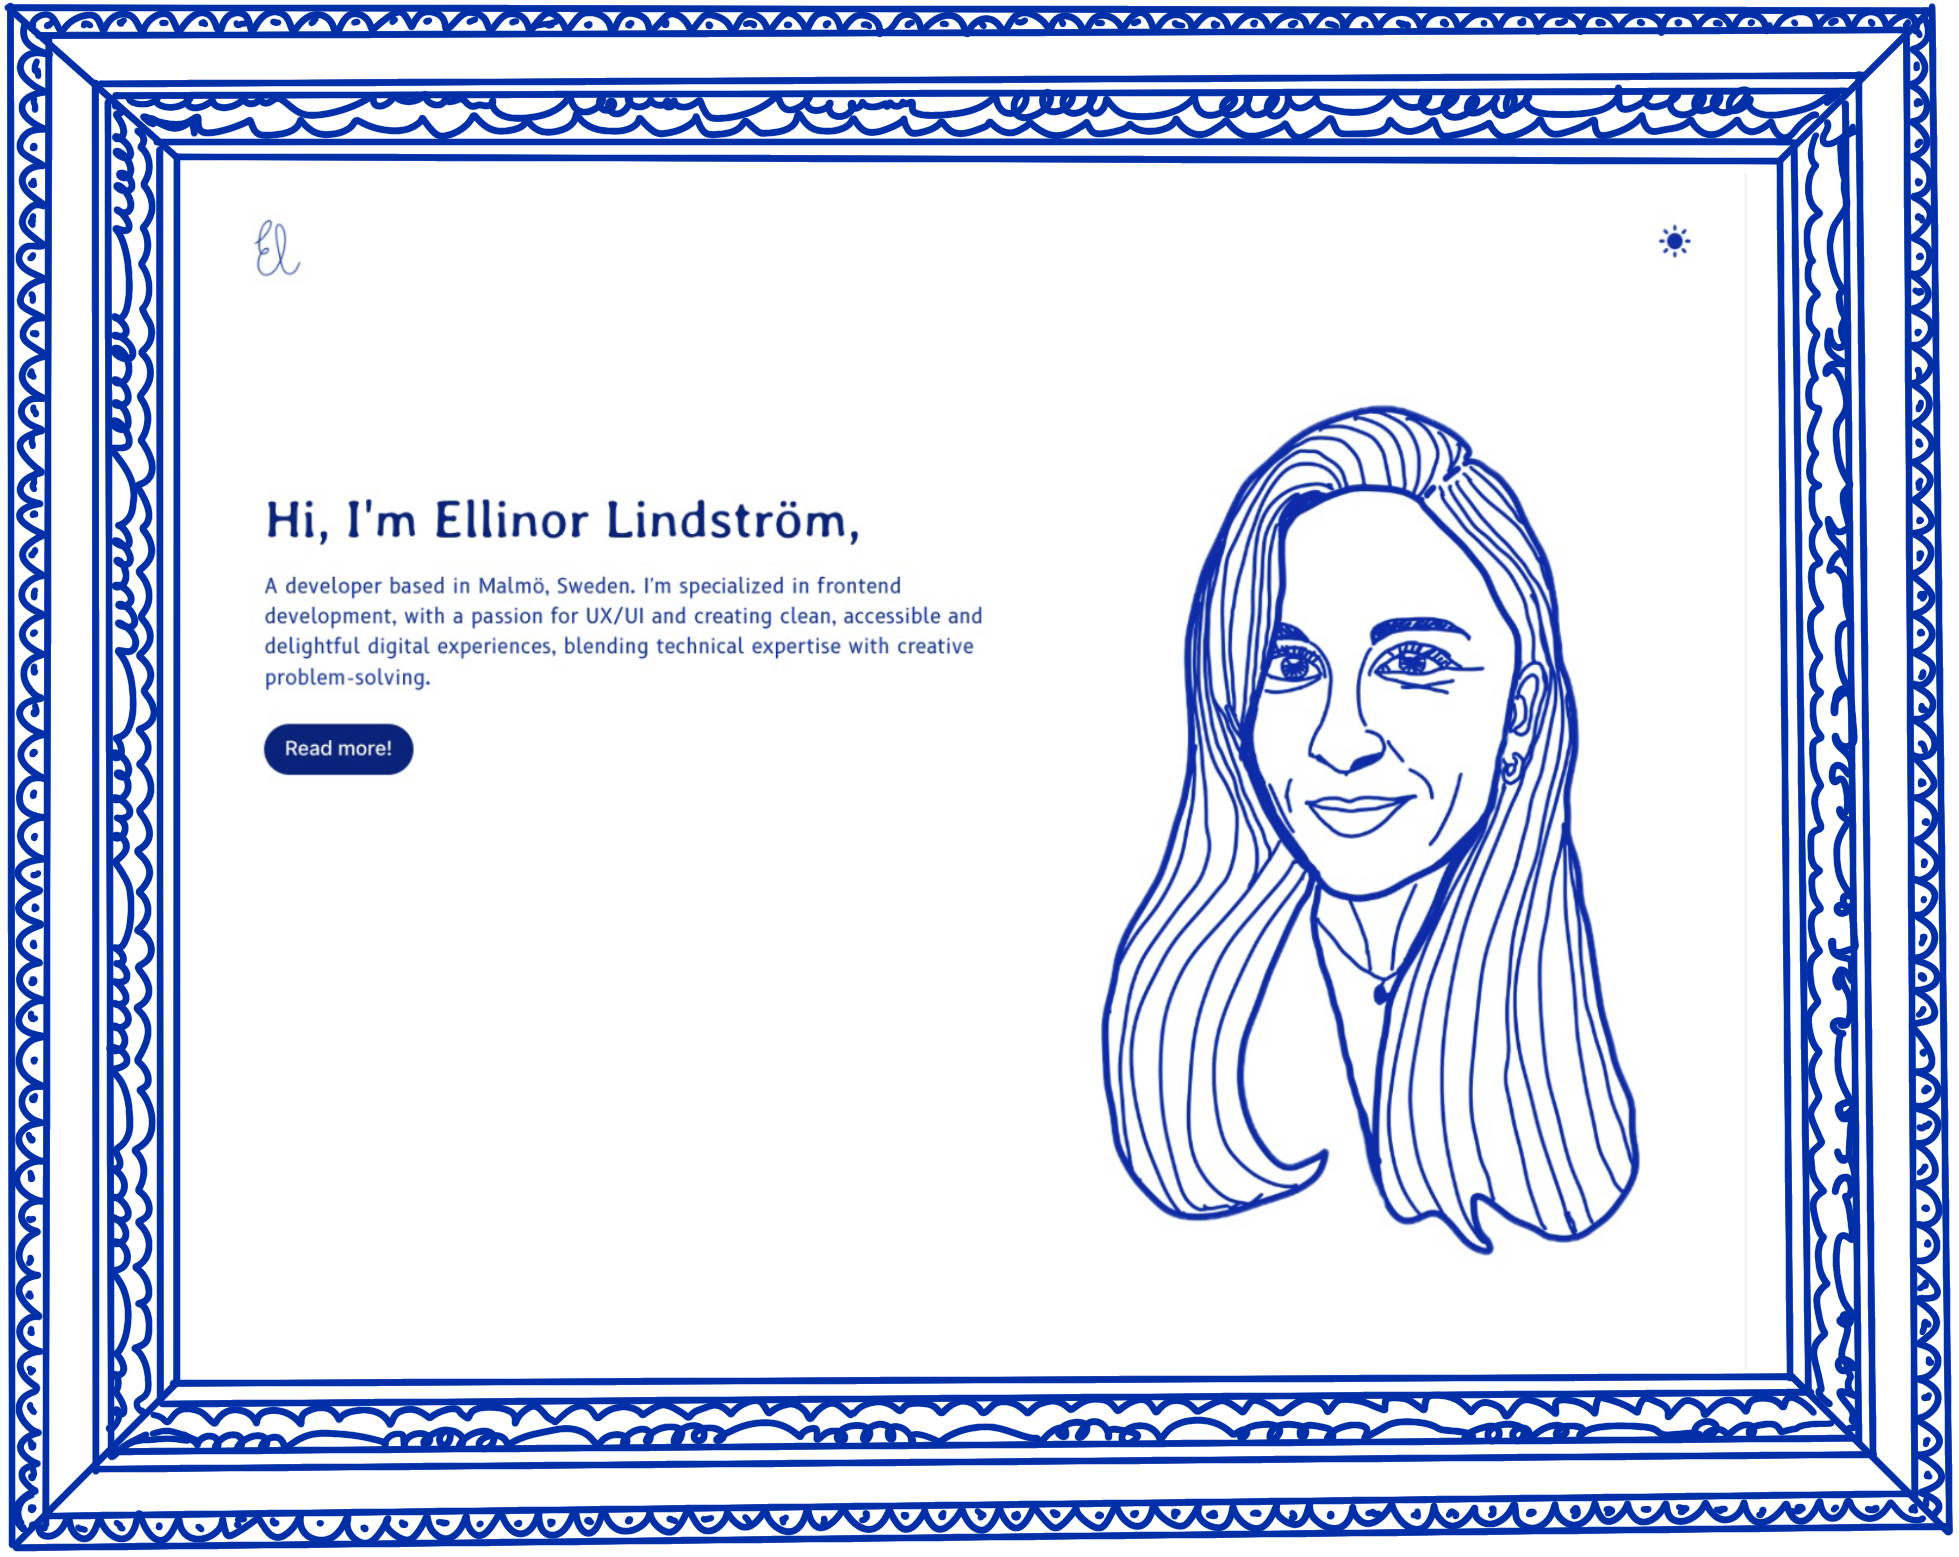
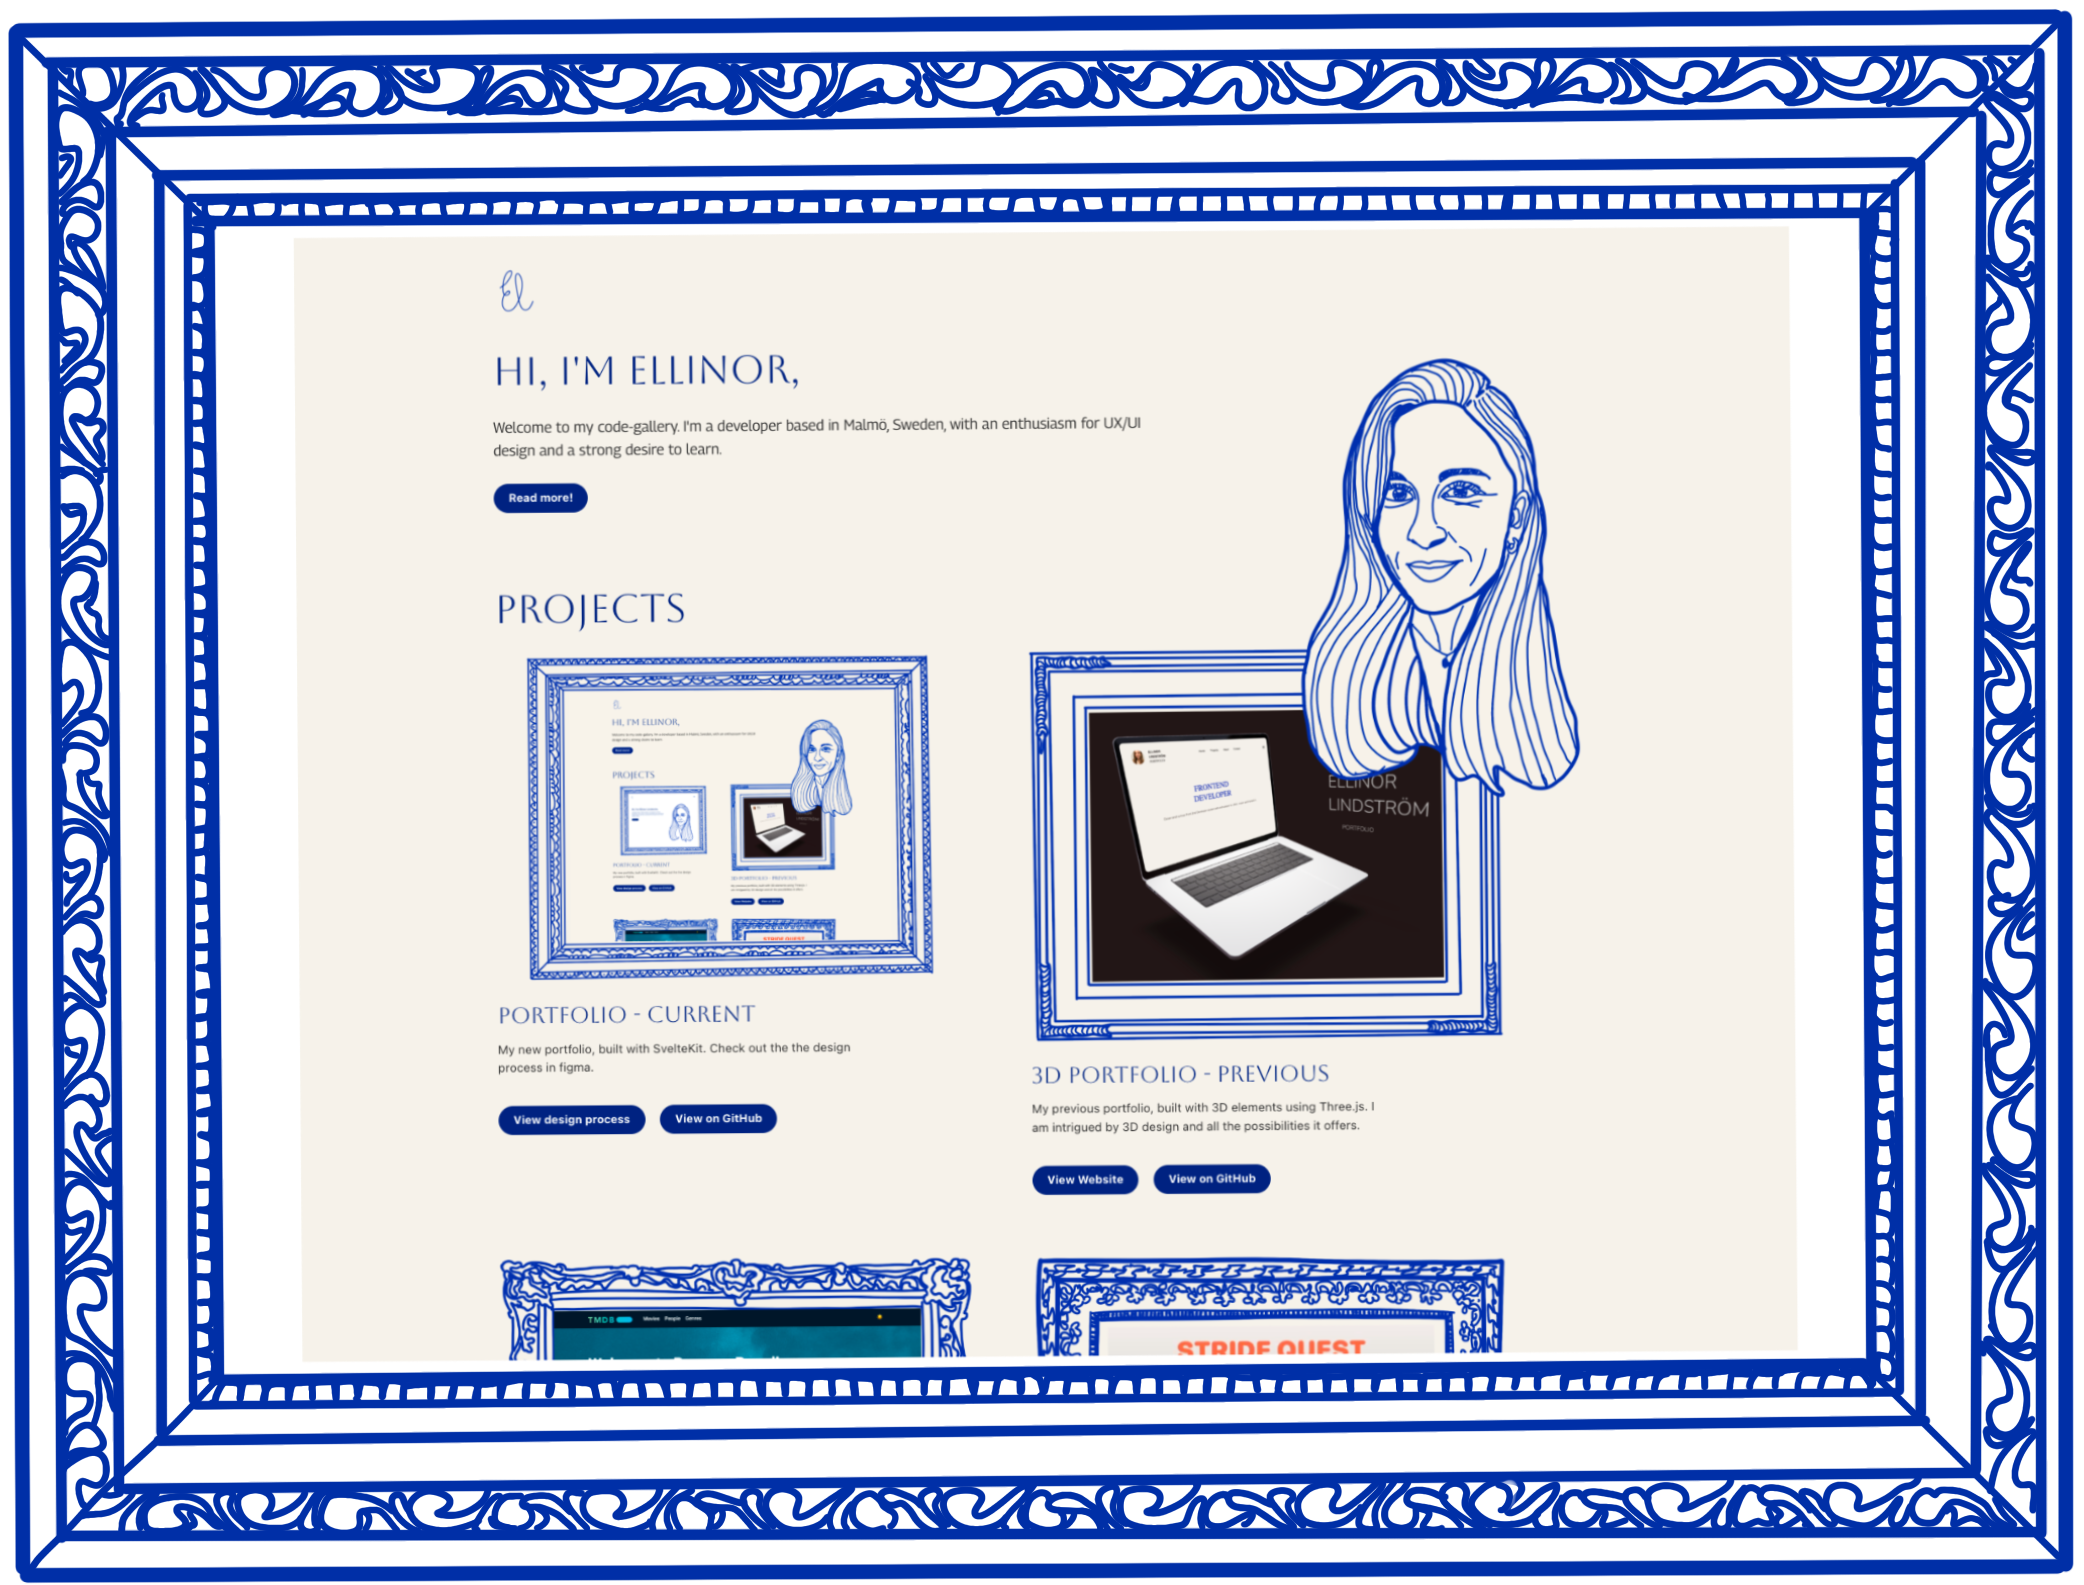
change layout and background color

diff --git a/src/styles/index.css b/src/styles/index.css
@@ -1,14 +1,17 @@
-@import url('https://fonts.googleapis.com/css2?family=Averia+Libre:wght@400;700&family=B612:wght@400;700&display=swap');
+@import url('https://fonts.googleapis.com/css2?family=Aboreto:wght@400;700&family=Georama:wght@400;700&display=swap');
 
 
 @layer reset, base, tokens, recipes, utilities;
 
 @layer base {
+
+  html {
+    background-color: var(--background-color);
+  }
   
   .layout-container {
     padding: 2rem 2rem 0.5rem;
     margin: 0 auto;
-    background-color: var(--background-color);
     color: var(--text-color);
     max-width: 1200px;
  
@@ -24,10 +27,10 @@
   /* Colors */
   :root {
     --primary-color: #002481;
-    --illustrations-color: #002FA7;
+    --illustration-color: #002FA7;
     --secondary-600: #7F7373;
     --secondary-400: #AEAEAE;
-    --background-color: #FCFCFD;    
+    --background-color: #f5f1e9;    
     --background-text: #FFF5EE;
     --text-color: #333333;
 
@@ -50,69 +53,70 @@
   /* Typography */
   /* Headings */
   h1, .heading-1 {
-    font-family: 'Averia Libre', serif;
+    font-family: 'Aboreto', sans-serif;
     font-size: 3.25rem; /* 52px */
     color: var(--primary-color);
     margin-bottom: var(--space-4);
   }
 
   h2, .heading-2 {
-    font-family: 'Averia Libre', serif;
+    font-family: 'Aboreto', sans-serif;
     font-size: 2.625rem; /* 42px */
     color: var(--primary-color);
+    margin-bottom: var(--space-4);
   }
 
   h3 {
-    font-family: 'Averia Libre', serif;
+    font-family: 'Aboreto', sans-serif;
     font-size: 1.875rem; /* 30px */
     color: var(--primary-color);
   }
 
   h4 {
-    font-family: 'Averia Libre', serif;
+    font-family: 'Aboreto', sans-serif;
     font-size: 1.5rem; /* 24px */
     color: var(--primary-color);
   }
 
   h5 {
-    font-family: 'Averia Libre', serif;
+    font-family: 'Aboreto', sans-serif;
     font-size: 1.125rem; /* 18px */
     color: var(--primary-color);
   }
 
   h6{
-    font-family: 'Averia Libre', serif;
+    font-family: 'Aboreto', sans-serif;
     font-size: 1.0625rem; /* 17px */
     color: var(--primary-color);
   }
 
   /* Paragraphs */
   .p-large {
-    font-family: 'B612', sans-serif;
+    font-family: 'Georama', sans-sans-serif;
     font-size: 1.5rem; /* 24px */
     line-height: 1.5;
-    color: var(--illustrations-color)
+    color: var(--text-color)
   }
 
   .p-medium {
-    font-family: 'B612', sans-serif;
+    font-family: 'Georama', sans-sans-serif;
     font-size: 1rem; /* 16px */
     line-height: 1.5;
-    color: var(--illustrations-color)
+    color: var(--text-color)
   }
 
   .p-small {
-    font-family: 'B612', sans-serif;
+    font-family: 'Georama', sans-sans-serif;
     font-size: 0.75rem; /* 12px */
     line-height: 1.5;
-    color: var(--illustrations-color)
+    color: var(--text-color)
   }
 
   .p-xsmall {
-    font-family: 'B612', sans-serif;
+    font-family: 'Georama', sans-sans-serif;
     font-size: var(--text-p-xsmall);
     line-height: 1.5;
-    color: var(--illustrations-color)
+    color: var(--text-color)
   }
 
   /* Buttons */
@@ -134,7 +138,7 @@
   }
 
   .btn-primary:hover {
-    background-color: var(--illustrations-color);
+    background-color: var(--illustration-color);
   }
 }
 

diff --git a/src/components/Hero.svelte b/src/components/Hero.svelte
@@ -1,6 +1,6 @@
 <script>
-	import { browser } from '$app/environment';
 	import { css } from 'styled-system/css';
+	import { browser } from '$app/environment';
 	import { onMount } from 'svelte';
 
 	let isMobile = false;
@@ -21,10 +21,8 @@
 	<div class="introduction">
 		<h1 class={css({ fontSize: '2.625rem' }) + ' text-h1'}>Hi, I'm Ellinor,</h1>
 		<p class="p-medium">
-			Welcome to my code-gallery. I'm a frontend developer based in Malmö, Sweden, crafting clean,
-			accessible, and delightful web experiences. With an enthusiasm for UX/UI design and a strong
-			desire to learn new technologies, I strive to transform ideas into code that connects with
-			users.
+			Welcome to my code-gallery. I'm a developer based in Malmö, Sweden, with an enthusiasm for
+			UX/UI design and a strong desire to learn.
 		</p>
 		<a href="/about" class="btn btn-primary text-p-small">Read more!</a>
 	</div>
@@ -32,7 +30,7 @@
 		<a href="/about">
 			<div class="image-container">
 				<img
-					src="../icons/portfolio-portrait.png"
+					src="../icons/portrait.png"
 					alt="A portrait of Ellinor Lindström"
 					width="500"
 					height="auto"
@@ -40,7 +38,7 @@
 					class="image primary"
 				/>
 				<img
-					src="../icons/portfolio-portrait-hover.png"
+					src="../icons/portrait-hover.png"
 					alt="A portrait of Ellinor Lindström"
 					width="500"
 					height="auto"
@@ -58,7 +56,7 @@
 		flex-direction: row;
 		align-items: flex-start;
 		text-align: left;
-		padding: 2rem 0;
+		padding: 2rem 0 0 0;
 	}
 
 	.image-container {
@@ -69,6 +67,7 @@
 	.image {
 		width: 100%;
 		height: auto;
+		margin-left: 100px;
 	}
 
 	.hover {

diff --git a/src/components/Projects.svelte b/src/components/Projects.svelte
@@ -1,10 +1,10 @@
 <h2 class="section-heading">Projects</h2>
 <div class="projects-container">
 	<div class="frame-container">
-		<a href="https://starwarsfunkyclopedia.netlify.app/" target="_blank" rel="noopener noreferrer">
+		<a href="https://ellinorlindstrom.com/" rel="noopener noreferrer">
 			<img
 				src="../projects/portfolio-framed.png"
-				alt="Star wars encyclopedia project"
+				alt="Current portfolio project"
 				loading="lazy"
 				class="frame"
 			/>

diff --git a/src/routes/+page.svelte b/src/routes/+page.svelte
@@ -15,5 +15,17 @@
 <style>
 	.layout-container {
 		padding-top: 0;
+		position: relative;
+	}
+
+	:global(.hero) {
+		position: relative;
+		z-index: 2;
+		margin-bottom: -250px;
+		padding-bottom: 100px;
+	}
+	:global(.projects-container) {
+		position: relative;
+		z-index: 1;
 	}
 </style>
